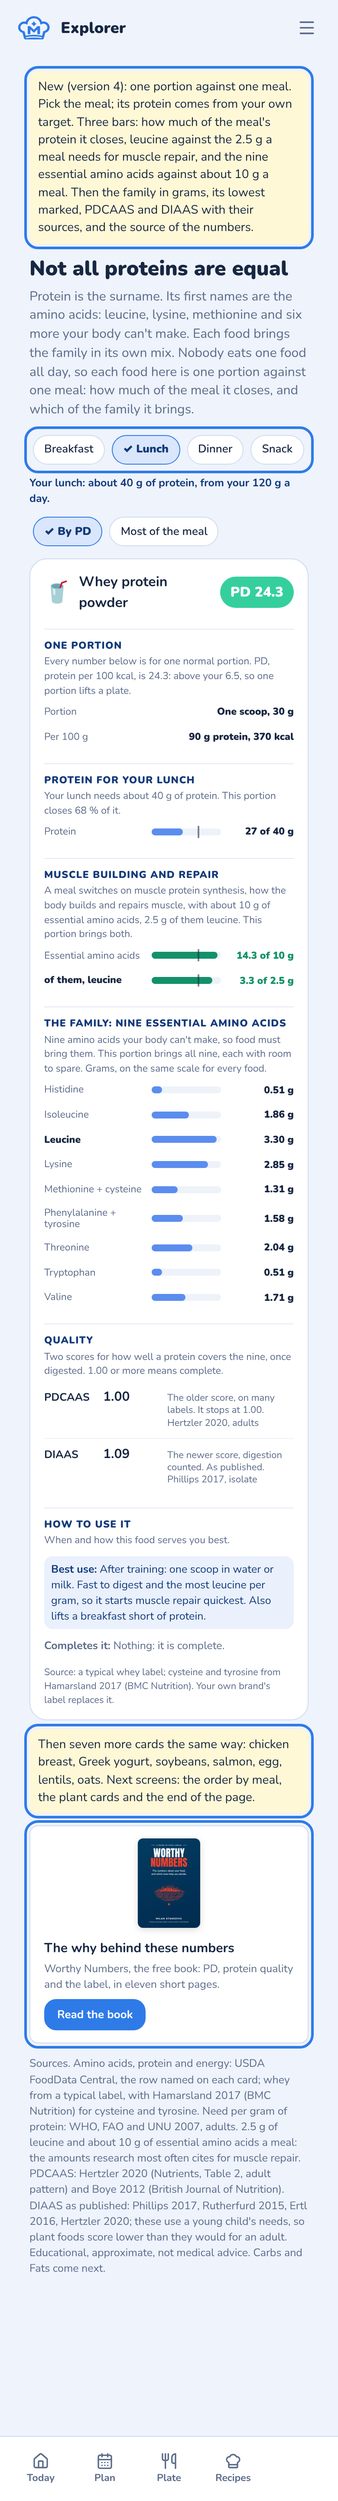
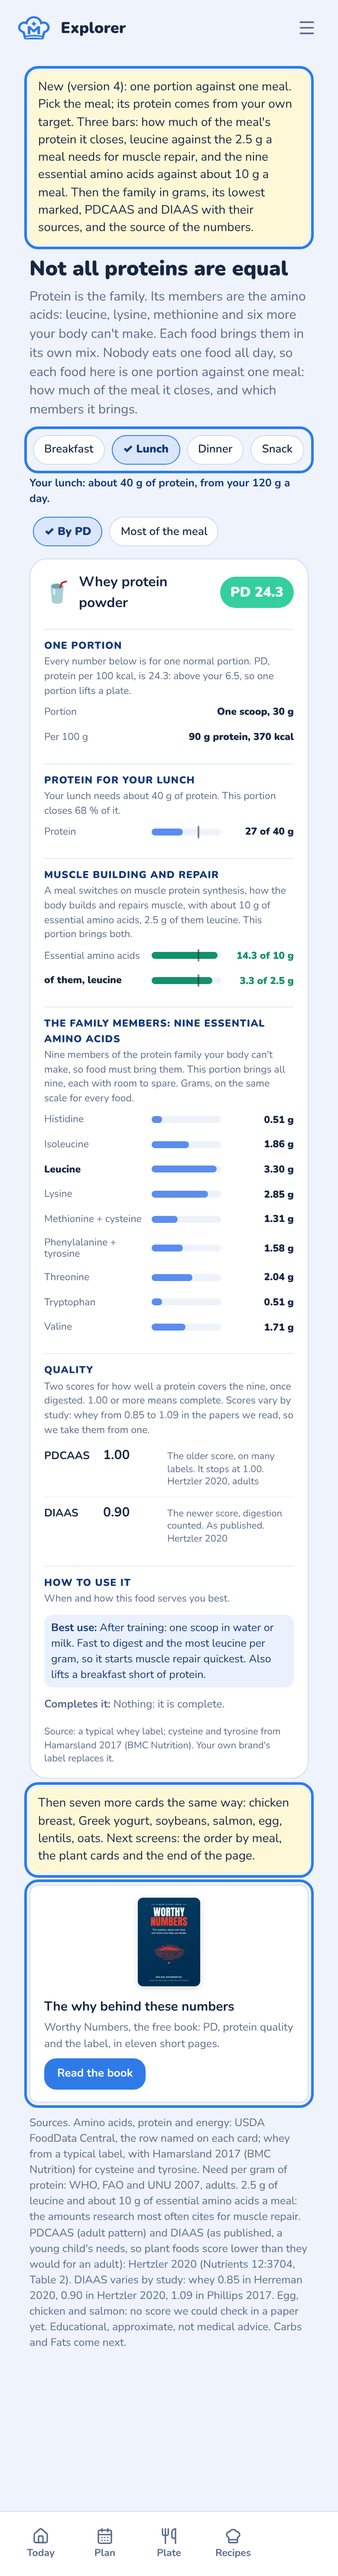
Board DT151 version 12: checked scores, family members
Claude-Session: https://claude.ai/code/session_01BtJPGKTfK5KfbXuNDmfhQP

diff --git a/design/boards/genDT151.py b/design/boards/genDT151.py
@@ -86,6 +86,7 @@ W = SX + 3 * (SW + GAP) - GAP + 70
 B = Board(); y = 30
 cy = storyCard(B, y, "DT151", "Explorer: not all proteins are equal (the MVP for the pitch, version 4: one portion against one meal)", [
   ("Coach Milan, 29 October 09:41 to 10:10", "The Explorer becomes part of Chef Mealan, built from scratch, the design as design only; a link in the Menu below Foods, to show new beta testers. Add the whole spectrum of essential amino acids and their levels, and when and how to use each food best. Check the data: everything was almost 200 %. Maybe grams are better."),
+  ("Coach Milan, 12:32 to 12:36", "We need the numbers confirmed in the papers, to be sure we tell the truth. The heading says The family: amino acids; that is not correct, the family is protein, the amino acids are its members. Go."),
   ("Coach Milan, 12:03 and 12:04", "Is it Muscle repair, Muscle building and repair, or muscle protein synthesis? Yes: MUSCLE BUILDING AND REPAIR, the term once in the line under it. Build it."),
   ("Coach Milan, 11:59", "The portion and per 100 g at the top are not following the pattern."),
   ("Coach Milan, 11:54", "Better. Still the pattern is not telling the same story. Title, then the goal of that section, then the details. The protein section says what it is, the amino acids don't."),
@@ -95,11 +96,10 @@ cy = storyCard(B, y, "DT151", "Explorer: not all proteins are equal (the MVP for
   ("Coach Milan, 11:27 and 11:28", "Where are the other metrics? And the family: protein is the surname, but the first names are the amino acids, not whey or chicken. The same for fats: saturated, monounsaturated. Add the source, where the data were taken from."),
   ("Coach Milan, 11:23", "The nine as a 3 by 3 matrix is not the best design. One below another, or rising bars, so we see the levels. Numbers are also OK."),
   ("Coach Milan, 10:55 and 11:02", "Against my day it is wrong: one scoop of whey looks like almost the whole day. Against one meal: the projected meal portion, and every food against that, to show how one food can close the meal. No one eats the same food across the day. Use the page to promote Worthy Numbers, and bring back what people know: one or two other metrics, DIAAS."),
-  ("What was wrong in version 3", "The day's need was WHO's minimum, set at 0.66 g of protein per kg for an inactive adult. Your target is about twice that, so one scoop looked like most of a day."),
   ("Now, checked in 0.2.131", "No Explorer. What makes one protein food different from another lives only in Chef Mealan's lines on a plate and in PD."),
-  ("The story", "Menu: Explorer, below Foods. One page, Not all proteins are equal: protein is the surname, its first names are the amino acids (leucine, lysine, methionine and six more the body can't make), and each food brings the family in its own mix. Eight protein foods. At the top, the meal: Breakfast, Lunch, Dinner, Snack, the next meal picked; its protein from your own day (for 120 g a day and three meals, a lunch is about 40 g; a snack half a meal). Each card: PD in the app's colours, per 100 g; one normal portion; then six sections, each the same story: a heading in capitals over a thin line, then the goal of the section and what this portion does against it, then the details: ONE PORTION (every number below is for one normal portion; PD with your target and what it means; Portion and Per 100 g as rows); every measure in the same pattern, the name on the left, the bar, the grams on the right, and a line on the bar where the meal has a need (green when the portion covers it); leucine in bold wherever it appears: PROTEIN FOR YOUR LUNCH (your lunch needs about 40 g, this portion closes 77 %; Protein, 30.6 of 40 g); MUSCLE BUILDING AND REPAIR (a meal switches on muscle protein synthesis, how the body builds and repairs muscle: Essential amino acids, 12.9 of 10 g; of them, leucine, 2.4 of 2.5 g); THE FAMILY: NINE ESSENTIAL AMINO ACIDS (grams, one below another); QUALITY (PDCAAS and DIAAS); HOW TO USE IT (Best use, Completes it). Green when the portion alone covers it. Then The family in this portion: the nine in grams, one below another, each a bar on the same scale for every food (0 to 3.5 g), so the levels compare across cards; when one only just covers the need per gram, it is marked amber, its lowest (lentils: methionine and cysteine; oats: lysine), and that is what a partner tops up. Then Quality, the two scores people know, one below another, each a row with its value, one line and its source: PDCAAS, the older score on many labels, stops at 1.00 (adult pattern where published); DIAAS, the newer one, digestion counted, as published. Salmon has neither in our sources yet, and the card says so. Then Best use, what completes it, one line against your PD target, and Source: the food table row the numbers come from. Two chips sort: By PD, Most of the meal. At the end: The why behind these numbers, Worthy Numbers, the free book, with Read the book; visits from here count as their own source, Explorer, in Metrics. One line names the sources and says what DIAAS as published means."),
+  ("The story", "Menu: Explorer, below Foods. One page, Not all proteins are equal: protein is the family, its members are the amino acids (leucine, lysine, methionine and six more the body can't make), and each food brings them in its own mix. Eight protein foods. At the top, the meal: Breakfast, Lunch, Dinner, Snack, the next meal picked; its protein from your own day (for 120 g a day and three meals, a lunch is about 40 g; a snack half a meal). Each card: PD in the app's colours, per 100 g; one normal portion; then six sections, each the same story: a heading in capitals over a thin line, then the goal of the section and what this portion does against it, then the details: ONE PORTION (every number below is for one normal portion; PD with your target and what it means; Portion and Per 100 g as rows); every measure in the same pattern, the name on the left, the bar, the grams on the right, and a line on the bar where the meal has a need (green when the portion covers it); leucine in bold wherever it appears: PROTEIN FOR YOUR LUNCH (your lunch needs about 40 g, this portion closes 77 %; Protein, 30.6 of 40 g); MUSCLE BUILDING AND REPAIR (a meal switches on muscle protein synthesis, how the body builds and repairs muscle: Essential amino acids, 12.9 of 10 g; of them, leucine, 2.4 of 2.5 g); THE FAMILY MEMBERS: NINE ESSENTIAL AMINO ACIDS (grams, one below another); QUALITY (PDCAAS and DIAAS); HOW TO USE IT (Best use, Completes it). Green when the portion alone covers it. Then The family in this portion: the nine in grams, one below another, each a bar on the same scale for every food (0 to 3.5 g), so the levels compare across cards; when one only just covers the need per gram, it is marked amber, its lowest (lentils: methionine and cysteine; oats: lysine), and that is what a partner tops up. Then Quality, the two scores people know, one below another, each a row with its value, one line and its source: PDCAAS, the older score on many labels, stops at 1.00 (adult pattern where published); DIAAS, the newer one, digestion counted, as published. Salmon has neither in our sources yet, and the card says so. Then Best use, what completes it, one line against your PD target, and Source: the food table row the numbers come from. Two chips sort: By PD, Most of the meal. At the end: The why behind these numbers, Worthy Numbers, the free book, with Read the book; visits from here count as their own source, Explorer, in Metrics. One line names the sources and says what DIAAS as published means."),
   ("Not in it", "3D molecules, the other families, links from the Plate and Foods, the design's Coach, Goal or profiles. A public version for people not signed in."),
-  ("The numbers, checked", "Amino acids per 100 g from USDA FoodData Central, cysteine and tyrosine added; fixed against the design's data.js: soybeans 18.2 g protein, not 16.6; oats lysine 0.64 g, not 0.53; chicken and Greek yogurt to the USDA rows. Whey has no USDA amino acid row: a published whey analysis, a brand's label in the build. Need per gram of protein: WHO, FAO and UNU 2007, adults; for an adult all eight cover it. 2.5 g of leucine and about 10 g of essential amino acids a meal: the amounts research most often cites for muscle repair. PDCAAS: Hertzler 2020 (Nutrients 12:3704, Table 2, adult pattern: whey, milk, soy 1.00, lentils 0.80, oats 0.62) and Boye 2012 (egg 1.00, chicken 0.95). DIAAS as published: Phillips 2017 (whey isolate 1.09, chicken 1.08, whole milk 1.14, egg 1.13), Ertl 2016 (soybeans 1.00), Rutherfurd 2015 (oats 0.54), Hertzler 2020 (lentils 0.75); these use a young child's needs, so plant foods score lower than for an adult; the page says so. Boye, Phillips, Rutherfurd and Ertl were read through a summary table; in the build each figure is checked against the paper itself. The page footer names every source."),
+  ("The numbers, checked", "Amino acids per 100 g from USDA FoodData Central, cysteine and tyrosine added; fixed against the design's data.js: soybeans 18.2 g protein, not 16.6; oats lysine 0.64 g, not 0.53; chicken and Greek yogurt to the USDA rows. Whey has no USDA amino acid row: a published whey analysis, a brand's label in the build. Need per gram of protein: WHO, FAO and UNU 2007, adults; for an adult all eight cover it. 2.5 g of leucine and about 10 g of essential amino acids a meal: the amounts research most often cites for muscle repair. Quality, checked in the papers (12:32 to 12:36): both scores from one paper read in full, Hertzler 2020 (Nutrients 12:3704, Table 2): PDCAAS for adults whey, milk and soy 1.00, lentils 0.80, oats 0.62; DIAAS as published whey 0.90, milk 1.08, soy 0.92, lentils 0.75, oats 0.44. One source, because DIAAS varies by study: whey 0.85 (Herreman 2020), 0.90 (Hertzler 2020), 1.09 (Phillips 2017); the Quality line says so. Egg, chicken and salmon: none yet. Taken out: chicken 1.08 and egg 1.13 credited to Phillips 2017 (neither is in its table), milk 1.14 (Phillips gives 1.43), soybeans from Ertl 2016 (feed, not food), egg and chicken PDCAAS from Boye 2012 and oats from Rutherfurd 2015 (full text not open). The page footer names every source."),
 ])
 h = rowEnd(cy,
   B.screen("DT151a", 0, y, "Now: no Explorer", "r151a", "now", "Me, Foods, Share, Support, About."),
